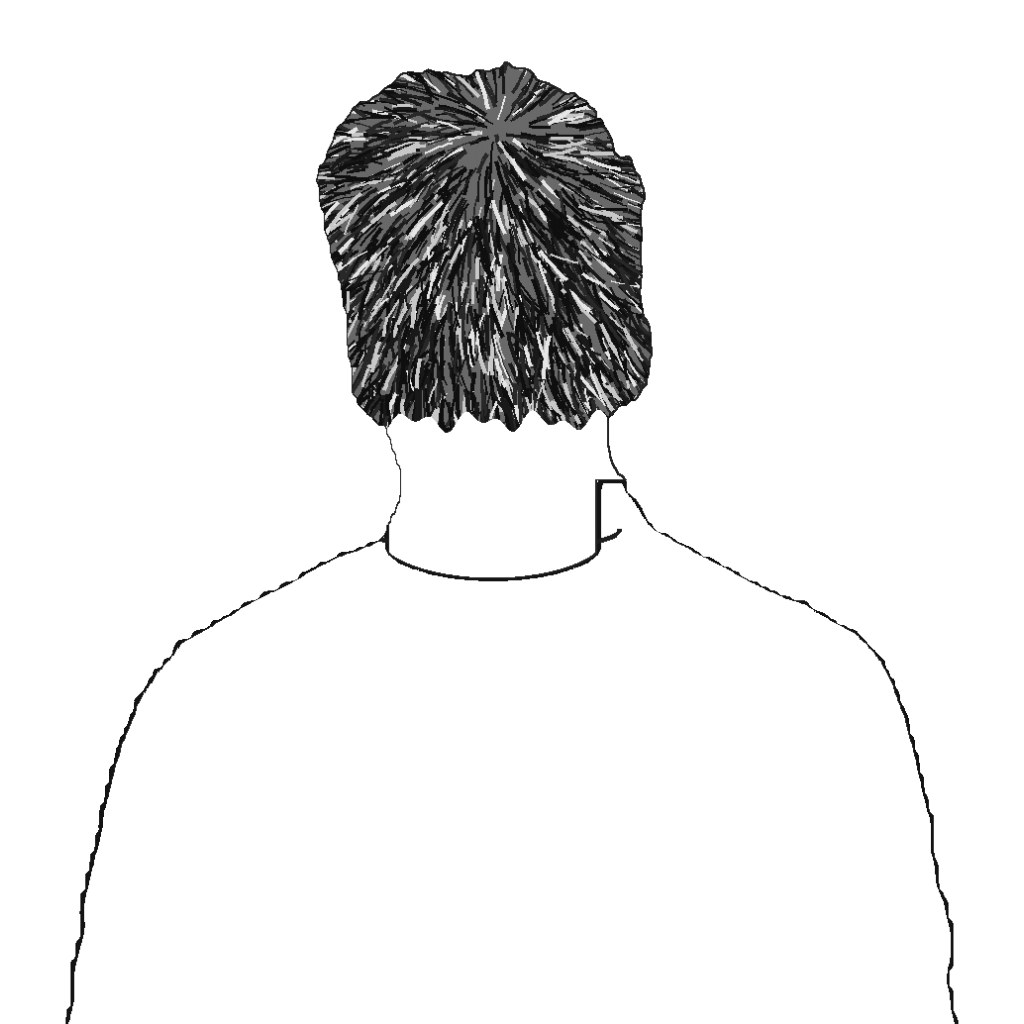
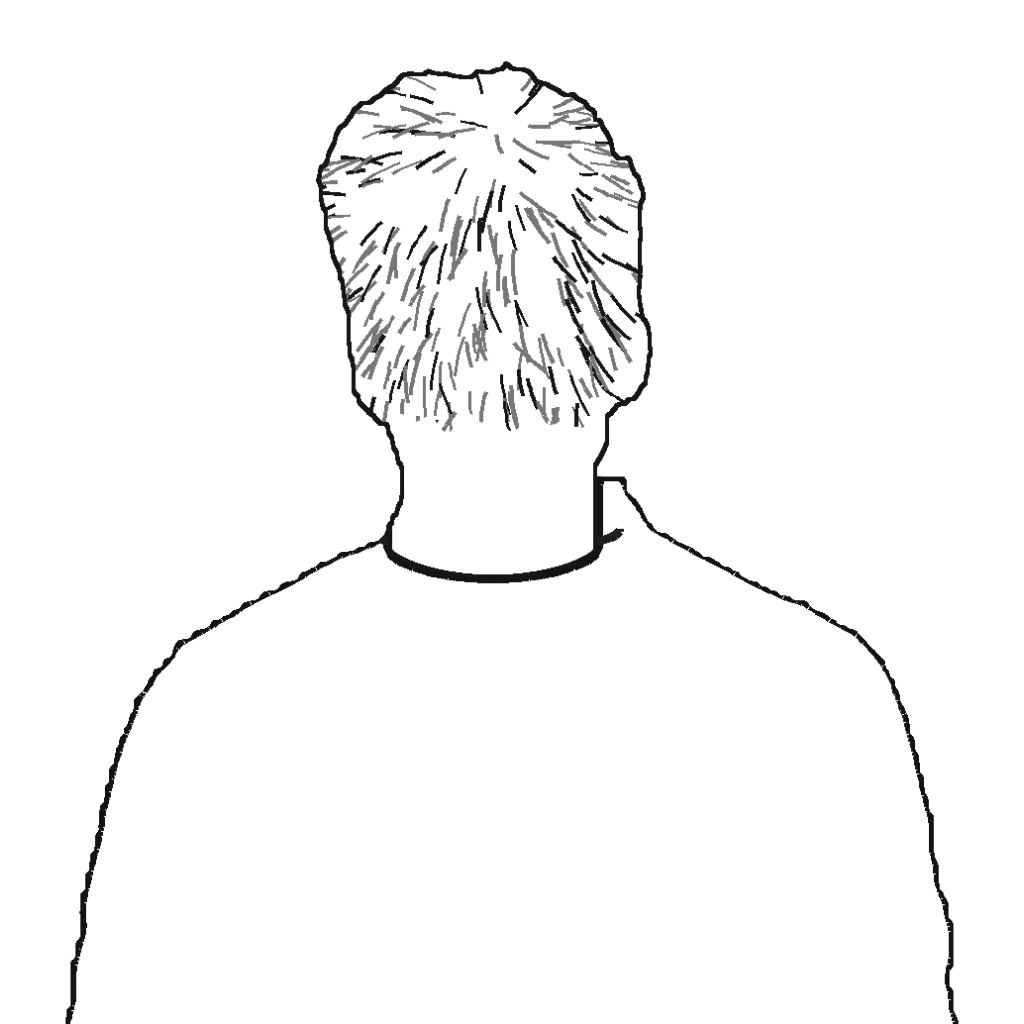
Mathieu en 3D, au trait : contours seulement (comme les chats), fidèle à sa photo, t-shirt Patagonia en contours
- tools/mathieu/trait.py : la tête redessinée (paupières, iris, sourcils, bouche, mâchoire, moustache d'après les points du visage ; silhouette, cheveux, mèches, oreilles d'après la photo)
- build.py : le t-shirt, le logo et le dos au même trait épais ; la tête s'arrête au visage et au cou

Claude-Session: https://claude.ai/code/session_01QHzzr1XaZacJrSCkxtveZH

diff --git a/js/mathieu.js b/js/mathieu.js
@@ -1,4 +1,4 @@
-/* Mathieu en 3D, décalqué : sa photo, redessinée en noir et blanc (tools/mathieu/build.py), posée sur un relief.
+/* Mathieu en 3D, dessiné au trait d'après sa photo (tools/mathieu/build.py, trait.py), posé sur un relief : des contours seulement, comme les chats.
    Le relief vient de la photo elle-même : les 468 points du visage (MediaPipe) pour le nez, les yeux, la bouche, le menton ;
    un ellipsoïde pour le crâne et les cheveux, un cylindre pour le cou, un tonneau aplati pour le buste (en t-shirt Patagonia).
    C'est une grille de 256 × 256 sommets, texturée : de face et de trois quarts on le reconnaît comme sur la photo ;

diff --git a/tools/mathieu/build.py b/tools/mathieu/build.py
@@ -4,8 +4,7 @@
     python3 tools/mathieu/build.py <photo de face> [dossier de sortie : media/mathieu]
 
 La photo n'est pas gardée dans le dépôt : seulement ce qu'on en tire.
-  visage.png   le dessin, à l'encre (gris dans r,g,b ; la silhouette dans a) : la photo décalquée en noir et blanc (XDoG),
-               la tête et le cou ; le buste redessiné en t-shirt (Patagonia) ; 1024 × 1024
+  visage.png   le dessin au trait (gris dans r,g,b ; la silhouette dans a) : la tête et le cou redessinés d'après la photo (trait.py) ; le buste redessiné en t-shirt (Patagonia) ; 1024 × 1024
   dos.png      le dos (quand il tourne) : les cheveux sur toute la tête, le dos du t-shirt ; même cadre
   relief.png   256 × 256, un point par sommet de la grille : r la profondeur, g la mâchoire (ce qui descend quand la bouche s'ouvre),
                b le côté de la ligne des lèvres (0 au-dessus, 255 en dessous) : le trou noir s'ouvre entre les deux
@@ -16,6 +15,7 @@ import sys, json, pathlib
 import numpy as np, cv2, mediapipe as mp
 from scipy.interpolate import griddata
 from PIL import Image, ImageDraw, ImageFont
+sys.path.insert(0, str(pathlib.Path(__file__).resolve().parent)); import trait
 
 src = sys.argv[1]; out = pathlib.Path(sys.argv[2] if len(sys.argv) > 2 else pathlib.Path(__file__).resolve().parents[2] / 'media' / 'mathieu'); out.mkdir(parents=True, exist_ok=True)
 im = cv2.imread(src); H0, W0 = im.shape[:2]; rgb = cv2.cvtColor(im, cv2.COLOR_BGR2RGB)
@@ -34,20 +34,18 @@ neck_line = lambda x: NL['c'][1] + NL['r'][1] * np.sqrt(np.clip(1 - ((x - NL['c'
 
 # ——— les zones ———
 person = cv2.GaussianBlur(seg, (0, 0), 1.5) > 0.5
-head = person & ((yy < 545) | ((xx > NECK[0]) & (xx < NECK[1]) & (yy < neck_line(xx))))
+OVAL = [10, 338, 297, 332, 284, 251, 389, 356, 454, 323, 361, 288, 397, 365, 379, 378, 400, 377, 152, 148, 176, 149, 150, 136, 172, 58, 132, 93, 234, 127, 162, 21, 54, 103, 67, 109]
+fo = np.zeros((H0, W0), np.uint8); cv2.fillPoly(fo, [L[OVAL, :2].astype(np.int32)], 1); fo = cv2.dilate(fo, np.ones((15, 15), np.uint8)) > 0
+# la tête : tout au-dessus de la bouche ; plus bas, le visage (son ovale) et le cou, jusqu'à l'encolure (pas le col de la chemise)
+head = person & ((yy < L[13, 1]) | fo | ((xx > NECK[0]) & (xx < NECK[1]) & (yy < neck_line(xx))))
 torso = person & ~head & (yy > 540)
 
-# ——— le décalque : la photo lissée, puis la différence de gaussiennes (XDoG), comme une gravure en noir et blanc ———
+# ——— la tête, redessinée au trait (tools/mathieu/trait.py) : des contours seulement, comme les chats et les objets ———
 b = im
 for _ in range(3): b = cv2.bilateralFilter(b, 9, 30, 7)
 g = cv2.cvtColor(b, cv2.COLOR_BGR2GRAY).astype(np.float32) / 255
-def xdog(g, s, k=1.6, p=40, eps=0.9, phi=3):
-    a, c = cv2.GaussianBlur(g, (0, 0), s), cv2.GaussianBlur(g, (0, 0), s * k); d = (1 + p) * a - p * c
-    return np.clip(np.where(d >= eps, 1.0, 1 + np.tanh(phi * (d - eps))), 0, 1)
-ink = xdog(g, 1.2)
-# le contour de la tête : un trait franc
-edge = cv2.morphologyEx(head.astype(np.uint8), cv2.MORPH_GRADIENT, np.ones((4, 4), np.uint8)) > 0
-ink[edge & (yy > 330)] = np.minimum(ink[edge & (yy > 330)], 0.15)
+ink, hairm = trait.tete(im, person, L[:, :2], g, head=head)
+edge = cv2.morphologyEx(head.astype(np.uint8), cv2.MORPH_GRADIENT, np.ones((9, 9), np.uint8)) > 0
 
 # ——— le t-shirt : sa silhouette (celle de la photo), l'encolure côtelée, les coutures, quelques plis, le logo Patagonia ———
 shirt = Image.new('L', (W0, H0), 255); d = ImageDraw.Draw(shirt)
@@ -56,49 +54,49 @@ def smooth(c, k=9):
     P = c[:, 0, :].astype(np.float32); P = np.stack([np.convolve(np.r_[P[-k:, i], P[:, i], P[:k, i]], np.ones(2 * k + 1) / (2 * k + 1), 'same')[k:-k] for i in (0, 1)], 1)
     return [tuple(q) for q in P[::2]]
 cnts = [c for c in cnts if cv2.contourArea(c) > 5000]
-for c in cnts: pts = smooth(c); d.line(pts + [pts[0]], fill=20, width=6, joint='curve')
+for c in cnts: pts = smooth(c); d.line(pts + [pts[0]], fill=20, width=10, joint='curve')
 arc = lambda cx, cy, rx, ry, a0, a1: [(cx + rx * np.cos(t), cy + ry * np.sin(t)) for t in np.linspace(a0, a1, 60)]
 cx, cy = NL['c']; rx, ry = NL['r']
-d.line(arc(cx, cy, rx, ry, 0, np.pi), fill=20, width=5)                       # le bord de l'encolure (sous le cou)
-d.line(arc(cx, cy + 4, rx + 22, ry + 26, 0.05, np.pi - 0.05), fill=30, width=5)  # la côte
-d.line(arc(cx, cy - 2, rx + 20, ry * 0.35, np.pi, 2 * np.pi), fill=60, width=4)  # l'encolure derrière le cou
+d.line(arc(cx, cy, rx, ry, 0, np.pi), fill=20, width=9)                       # le bord de l'encolure (sous le cou)
+d.line(arc(cx, cy + 4, rx + 22, ry + 26, 0.05, np.pi - 0.05), fill=30, width=9)  # la côte
+d.line(arc(cx, cy - 2, rx + 20, ry * 0.35, np.pi, 2 * np.pi), fill=60, width=7)  # l'encolure derrière le cou
 for s in (-1, 1):                                                               # les coutures des manches, les plis
     X = lambda x: cx + s * x
-    d.line([(X(330), 690), (X(345), 780), (X(362), 880), (X(372), 1000), (X(378), 1100)], fill=40, width=4, joint='curve')
-    d.line([(X(300), 1020), (X(250), 1070), (X(215), 1150)], fill=110, width=3, joint='curve')
-    d.line([(X(390), 960), (X(330), 1000)], fill=120, width=3)
-    d.line([(X(160), 1150), (X(120), 1250)], fill=130, width=3)
+    d.line([(X(330), 690), (X(345), 780), (X(362), 880), (X(372), 1000), (X(378), 1100)], fill=40, width=7, joint='curve')
+    d.line([(X(300), 1020), (X(250), 1070), (X(215), 1150)], fill=110, width=5, joint='curve')
+    d.line([(X(390), 960), (X(330), 1000)], fill=120, width=5)
+    d.line([(X(160), 1150), (X(120), 1250)], fill=130, width=5)
 # le logo : les pics (le Fitz Roy) en noir sur un ciel rayé, dans un cadre ; le nom dessous
 lx, ly, lw, lh = cx - 95, 800, 190, 92
-d.rectangle([lx, ly, lx + lw, ly + lh], outline=20, width=4)
-for k, yb in enumerate(np.linspace(ly + 14, ly + 50, 4)): d.line([(lx + 6, yb), (lx + lw - 6, yb)], fill=90 + 25 * k, width=6)
+d.rectangle([lx, ly, lx + lw, ly + lh], outline=20, width=7)
+for k, yb in enumerate(np.linspace(ly + 14, ly + 50, 4)): d.line([(lx + 6, yb), (lx + lw - 6, yb)], fill=120, width=5)
 peaks = [(0, 1), (0.08, 0.72), (0.16, 0.8), (0.27, 0.42), (0.33, 0.55), (0.41, 0.3), (0.47, 0.5), (0.55, 0.38), (0.62, 0.62), (0.72, 0.52), (0.82, 0.74), (0.9, 0.66), (1, 0.82), (1, 1)]
-d.polygon([(lx + 4 + (lw - 8) * u, ly + 4 + (lh - 8) * v) for u, v in peaks], fill=15)
+pk = [(lx + 4 + (lw - 8) * u, ly + 4 + (lh - 8) * v) for u, v in peaks]; d.polygon(pk, fill=255); d.line(pk + [pk[0]], fill=20, width=7, joint='curve')
 font = ImageFont.truetype('/usr/share/fonts/truetype/freefont/FreeSerifBoldItalic.ttf', 46)
-tw = d.textlength('patagonia', font=font); d.text((cx - tw / 2, ly + lh + 6), 'patagonia', font=font, fill=15)
+tw = d.textlength('patagonia', font=font); d.text((cx - tw / 2, ly + lh + 6), 'patagonia', font=font, fill=255, stroke_width=3, stroke_fill=20)
 shirt = np.asarray(shirt, np.float32) / 255
 front = np.where(head, ink, np.where(torso, shirt, 1.0))
 alpha = (head | torso)
 
-# ——— le dos : les cheveux sur toute la tête (la bande des cheveux, étirée), le dos du t-shirt (sans le logo) ———
+# ——— le dos : la tête, des mèches au trait ; le dos du t-shirt (sans le logo) ———
 top = int(np.where(head.any(1))[0].min()); nape = 485
-# des mèches dessinées : des traits courbes qui partent du sommet du crâne, serrés, sur un fond gris
-hair = Image.new('L', (W0, H0), 105); dh_ = ImageDraw.Draw(hair); rng = np.random.default_rng(7)
+# des mèches dessinées : des traits courbes qui partent du sommet du crâne
+hair = Image.new('L', (W0, H0), 255); dh_ = ImageDraw.Draw(hair); rng = np.random.default_rng(7)
 crown = (CX, top + 70)
-for i in range(2600):
+for i in range(420):
     x0, y0 = rng.uniform(CX - 230, CX + 230), rng.uniform(top - 10, nape + 10)
     ang = np.arctan2(y0 - crown[1], x0 - crown[0]) + rng.normal(0, 0.25); ln = rng.uniform(18, 46)
     pts = [(x0 + np.cos(ang + 0.02 * t) * ln * t / 6, y0 + np.sin(ang + 0.02 * t) * ln * t / 6) for t in range(7)]
-    dh_.line(pts, fill=int(rng.choice([15, 25, 40, 200, 230], p=[0.35, 0.25, 0.2, 0.12, 0.08])), width=int(rng.integers(2, 5)), joint='curve')
+    dh_.line(pts, fill=int(rng.choice([22, 120], p=[0.3, 0.7])), width=int(rng.integers(3, 5)), joint='curve')
 back = np.asarray(hair, np.float32) / 255
 # la limite des cheveux sur la nuque : un peu irrégulière ; la nuque et le cou en dessous, en clair
 hl = nape + 12 * np.sin(xx[0] / 23) * np.sin(xx[0] / 7)
 back = np.where(yy >= hl[None, :], 1.0, back)
 back = np.where(head, back, 1.0)
-back[edge] = np.minimum(back[edge], 0.15)
+back[edge] = np.minimum(back[edge], 0.09)
 plain = Image.new('L', (W0, H0), 255); d2 = ImageDraw.Draw(plain)
-for c in cnts: pts = smooth(c); d2.line(pts + [pts[0]], fill=20, width=6, joint='curve')
-d2.line(arc(cx, cy - 4, rx + 10, ry * 0.5, 0, np.pi), fill=30, width=5)
+for c in cnts: pts = smooth(c); d2.line(pts + [pts[0]], fill=20, width=10, joint='curve')
+d2.line(arc(cx, cy - 4, rx + 10, ry * 0.5, 0, np.pi), fill=30, width=9)
 back = np.where(torso, np.asarray(plain, np.float32) / 255, back)
 back = back[:, ::-1]; balpha = alpha[:, ::-1]
 
@@ -111,7 +109,6 @@ def ell(c, r):
 dh = ell(HC['c'], HC['r'])
 dh = np.where(dh < -1e8, 0.0, dh)                     # les cheveux qui dépassent : à plat, au bord
 # le visage : les points de MediaPipe, recalés sur l'ellipsoïde par leur bord (l'ovale du visage)
-OVAL = [10, 338, 297, 332, 284, 251, 389, 356, 454, 323, 361, 288, 397, 365, 379, 378, 400, 377, 152, 148, 176, 149, 150, 136, 172, 58, 132, 93, 234, 127, 162, 21, 54, 103, 67, 109]
 eb = np.array([dh[int(L[i, 1]), int(L[i, 0])] for i in OVAL]); off = np.median(eb - L[OVAL, 2])
 face = griddata(L[:, :2], L[:, 2] + off, (xx, yy), method='linear')
 inside = ~np.isnan(face); face = np.nan_to_num(face, nan=-1e9)

diff --git a/tools/mathieu/trait.py b/tools/mathieu/trait.py
@@ -1,0 +1,96 @@
+"""La tête de Mathieu, redessinée au trait d'après sa photo (appelé par build.py) : des contours seulement, comme les chats et les objets.
+Ce qui vient des 478 points du visage (MediaPipe) : les paupières, l'iris, les sourcils, la bouche, la mâchoire, la moustache (sa forme, symétrique).
+Ce qui vient de la photo : la silhouette, la ligne des cheveux, les mèches, le creux des oreilles (les creux sombres, amincis en traits).
+Deux encres : INK (le trait franc), SOFT (le trait pâle). """
+import cv2, numpy as np
+from PIL import Image, ImageDraw
+from scipy.interpolate import splprep, splev
+from skimage.morphology import skeletonize
+
+def tete(im, m, L, g, bottom=640, head=None):
+    """im : la photo (BGR), m : la silhouette, L : les points du visage (x, y), g : la photo lissée en gris (0 à 1).
+    Rend le dessin (0 : encre, 1 : papier) et le masque des cheveux."""
+    H0, W0 = m.shape; yy, xx = np.mgrid[0:H0, 0:W0]
+    INK, SOFT, W, w = 22, 110, 10, 7
+    def curve(idx, n=80, closed=False, s=0):
+      P=L[idx]
+      if closed: P=np.vstack([P,P[:1]])
+      tck,_=splprep([P[:,0],P[:,1]],s=s,per=closed,k=min(3,len(P)-1)); x,y=splev(np.linspace(0,1,n),tck); return list(zip(x,y))
+    def smooth(c,k=7):
+      P=c[:,0,:].astype(np.float32); n=len(P)
+      if n<2*k+2: return [tuple(p) for p in P]
+      P=np.stack([np.convolve(np.r_[P[-k:,i],P[:,i],P[:k,i]],np.ones(2*k+1)/(2*k+1),'same')[k:-k] for i in (0,1)],1); return [tuple(p) for p in P[::2]]
+    def outline(d, mask, width, fill=INK, minarea=150, k=7):
+      cs,_=cv2.findContours(mask.astype(np.uint8),cv2.RETR_EXTERNAL,cv2.CHAIN_APPROX_NONE)
+      for c in cs:
+        if cv2.contourArea(c)<minarea: continue
+        p=smooth(c,k); d.line(p+[p[0]],fill=fill,width=width,joint='curve')
+    def strokes(d, mask, width, fill, minlen=25):
+      sk=skeletonize(mask); n,lab,st,_=cv2.connectedComponentsWithStats(sk.astype(np.uint8),8)
+      for i in range(1,n):
+        if st[i,4]<minlen: continue
+        ys,xs=np.where(lab==i)
+        for y,x in zip(ys,xs): d.ellipse([x-width/2,y-width/2,x+width/2,y+width/2],fill=fill)
+    img=Image.new('L',(W0,H0),255); d=ImageDraw.Draw(img)
+    OVAL=[10,338,297,332,284,251,389,356,454,323,361,288,397,365,379,378,400,377,152,148,176,149,150,136,172,58,132,93,234,127,162,21,54,103,67,109]
+    fm=np.zeros((H0,W0),np.uint8); cv2.fillPoly(fm,[L[OVAL].astype(np.int32)],1); face=fm>0
+    gb=cv2.GaussianBlur(g,(0,0),2)
+    # les cheveux : leur contour, et des mèches (les creux sombres, amincis en traits)
+    hair=m&(gb<0.40)&(yy<560)&~(face&(yy>L[10,1]+40))
+    hair=cv2.morphologyEx(hair.astype(np.uint8),cv2.MORPH_OPEN,np.ones((7,7),np.uint8))
+    n,lab,st,_=cv2.connectedComponentsWithStats(hair,8); keep=np.zeros(n,bool); keep[1:]=st[1:,4]>600; hair=keep[lab]
+    inner=cv2.erode(hair.astype(np.uint8),np.ones((15,15),np.uint8))>0
+    dn=cv2.GaussianBlur(g,(0,0),1.5)-cv2.GaussianBlur(g,(0,0),4.5)
+    strokes(d, inner&(dn<-0.018), w, SOFT, 25)
+    # la moustache : son contour, et quelques poils
+    skin=np.median(gb[face&(yy>L[1,1])&(yy<L[0,1])&~(np.abs(xx-L[1,0])<60)])
+    mbox=(yy>L[2,1]+6)&(yy<L[0,1]+6)&(np.abs(xx-L[0,0])<(L[291,0]-L[61,0])*0.75)
+    must=cv2.morphologyEx((mbox&(gb<skin-0.13)).astype(np.uint8),cv2.MORPH_CLOSE,np.ones((9,9),np.uint8))>0
+    must=cv2.morphologyEx(must.astype(np.uint8),cv2.MORPH_OPEN,np.ones((5,5),np.uint8))>0
+    # la moustache, symétrique : entre la lèvre du haut et une courbe au-dessus, épaisse comme sur la photo
+    UPO=[61,185,40,39,37,0,267,269,270,409,291]
+    lipP=np.array(curve(UPO,60)); cxm=L[0,0]; half=(L[291,0]-L[61,0])/2+14
+    xsM=np.linspace(cxm-half,cxm+half,41); lipY=np.interp(xsM,lipP[:,0],lipP[:,1])
+    th=[]
+    for x,ly in zip(xsM,lipY):
+      col=np.where(must[:,int(x)])[0]; th.append(max(0,ly-col.min()) if len(col) else 0)
+    th=np.array(th); th=(th+th[::-1])/2; th=np.convolve(np.r_[th[:3],th,th[-3:]],np.ones(7)/7,'same')[3:-3]
+    u=np.abs(np.linspace(-1,1,41)); th=np.maximum(th, 0)*(1-u**4)+2
+    top=[(x,ly-t) for x,ly,t in zip(xsM,lipY,th)]; bot=[(x,ly+3) for x,ly in zip(xsM,lipY)]
+    # les pointes descendent un peu aux coins
+    d.line(top+bot[::-1]+[top[0]],fill=INK,width=W,joint='curve')
+    for i in range(3,38,3):
+      x,ly,t=xsM[i],lipY[i],th[i]; d.line([(x,ly-t*0.8),(x+(i-20)*0.6,ly-t*0.15)],fill=SOFT,width=5)
+    # les sourcils : leur contour
+    RB=[70,63,105,66,107,55,65,52,53,46]; LB=[300,293,334,296,336,285,295,282,283,276]
+    for br in (RB,LB): p=curve(br,70,True,s=60); d.line(p,fill=INK,width=w+1,joint='curve')
+    # les yeux : les paupières, l'iris (un rond), la pupille (un point, comme les chats), un reflet
+    RE_UP=[33,246,161,160,159,158,157,173,133]; RE_LO=[33,7,163,144,145,153,154,155,133]
+    LE_UP=[263,466,388,387,386,385,384,398,362]; LE_LO=[263,249,390,373,374,380,381,382,362]
+    for up,lo,iris in [(RE_UP,RE_LO,468),(LE_UP,LE_LO,473)]:
+      c=L[iris]; r=np.linalg.norm(L[iris+1]-L[iris+3])/2*0.95
+      # l'iris, coupé par les paupières
+      em=np.zeros((H0,W0),np.uint8); cv2.fillPoly(em,[np.array(curve(up)+curve(lo)[::-1]).astype(np.int32)],1)
+      ir=Image.new('L',(W0,H0),0); di=ImageDraw.Draw(ir); di.ellipse([c[0]-r,c[1]-r,c[0]+r,c[1]+r],outline=255,width=w); di.ellipse([c[0]-r*0.42,c[1]-r*0.42,c[0]+r*0.42,c[1]+r*0.42],fill=255)
+      di.ellipse([c[0]+r*0.05,c[1]-r*0.45,c[0]+r*0.38,c[1]-r*0.12],fill=0)
+      irm=(np.asarray(ir)>0)&(em>0); a=np.asarray(img).copy(); a[irm]=INK; img=Image.fromarray(a); d=ImageDraw.Draw(img)
+      d.line(curve(up),fill=INK,width=W,joint='curve'); d.line(curve(lo),fill=SOFT,width=5,joint='curve')
+      # le pli de la paupière, au-dessus
+      crease=np.array(curve(up))[10:-10]; crease[:,1]-=r*0.75; d.line([tuple(p) for p in crease],fill=SOFT,width=5,joint='curve')
+    # le nez : le dessous du bout, les ailes ; un trait pâle le long de l'arête
+    d.line(curve([98,97,2,326,327],40),fill=INK,width=w,joint='curve')   # le dessous du bout du nez
+    for wing in ([48,64,98],[278,294,327]): d.line(curve(wing,30),fill=INK,width=w,joint='curve')   # les ailes du nez
+    bridge=[168,6,197,195,5]; P=np.array(curve(bridge,30)); P[:,0]-=L[129,0]*0+ (L[358,0]-L[129,0])*0.22; d.line([tuple(p) for p in P][6:],fill=SOFT,width=5,joint='curve')
+    # la bouche : la ligne des lèvres, la lèvre du bas (plus pâle)
+    MID=[78,191,80,81,82,13,312,311,310,415,308]; LOO=[61,146,91,181,84,17,314,405,321,375,291]
+    d.line(curve(MID),fill=INK,width=W,joint='curve'); d.line(curve(LOO)[18:-18],fill=SOFT,width=5,joint='curve')
+    # les oreilles : le dedans (les creux sombres, en traits)
+    for i in (234,454):
+      box=(np.abs(xx-L[i,0])<45)&(np.abs(yy-L[i,1])<70)&~face&m&~hair
+      strokes(d, box&(dn<-0.025), w, SOFT, 20)
+    # le menton, la mâchoire : l'ovale du bas ; et toute la silhouette, en trait franc
+    jaw=[234,93,132,58,172,136,150,149,176,148,152,377,400,378,379,365,397,288,361,323,454]
+    d.line(curve(jaw,120)[25:-25],fill=INK,width=W,joint='curve')
+    outline(d, head if head is not None else m&(yy<bottom), W+1, INK, 5000, 9)
+    outline(d, hair, W, INK, 600, 7)
+    return np.asarray(img, np.float32) / 255, hair

diff --git a/docs/plan-transition.md b/docs/plan-transition.md
@@ -29,9 +29,9 @@ Retour arrière (flèche gauche, barre du film) : tout doit se rejouer à l'enve
 
 ## Mathieu en 3D : ce qui existe
 
-Deuxième version (26 septembre, 12:07), après le retour de Mathieu (« on ne me reconnaît pas ») : il est décalqué de sa photo, fidèle comme une photo en noir et blanc, et porte un t-shirt Patagonia.
+Troisième version (26 septembre, 12:24). Mathieu a refusé la caricature (« on ne me reconnaît pas »), puis le décalque en gris (« crispy ») : il est maintenant dessiné au trait d'après sa photo, fidèle, avec des contours seulement comme les chats et les objets, en t-shirt Patagonia.
 
-- `tools/mathieu/build.py` tire de sa photo de face : le décalque en noir et blanc (`media/mathieu/visage.png`), le dos (`dos.png` : ses cheveux, le dos du t-shirt), le relief (`relief.png`, `relief.json`). Le relief vient des 468 points 3D du visage (MediaPipe Face Mesh) ; autour, un ellipsoïde pour le crâne, un cylindre pour le cou, un tonneau pour le buste. La photo elle-même n'est pas dans le dépôt.
+- `tools/mathieu/build.py` tire de sa photo de face : le dessin au trait (`media/mathieu/visage.png`, la tête par `tools/mathieu/trait.py`), le dos (`dos.png` : ses cheveux, le dos du t-shirt), le relief (`relief.png`, `relief.json`). Le relief vient des 468 points 3D du visage (MediaPipe Face Mesh) ; autour, un ellipsoïde pour le crâne, un cylindre pour le cou, un tonneau pour le buste. La photo elle-même n'est pas dans le dépôt.
 - `js/mathieu.js` pose le décalque sur ce relief (une grille de 256 × 256 sommets) : `Mathieu.create()`, `Mathieu.pose(m, { x, y, s, turn, tilt, open })`, `Mathieu.mouthAt(m)` (le centre du trou noir à l'écran, pour y plonger).
 - La bouche : la mâchoire (sous la ligne des lèvres, jusqu'au menton) descend et avance ; à sa place, de l'encre.
 - Limite : le relief vient d'une photo de face ; de trois quarts il est très juste, de profil il s'aplatit. Pour « il arrive en tournant », le tour est rapide (on ne s'attarde pas de profil) ; de dos on voit ses cheveux.
